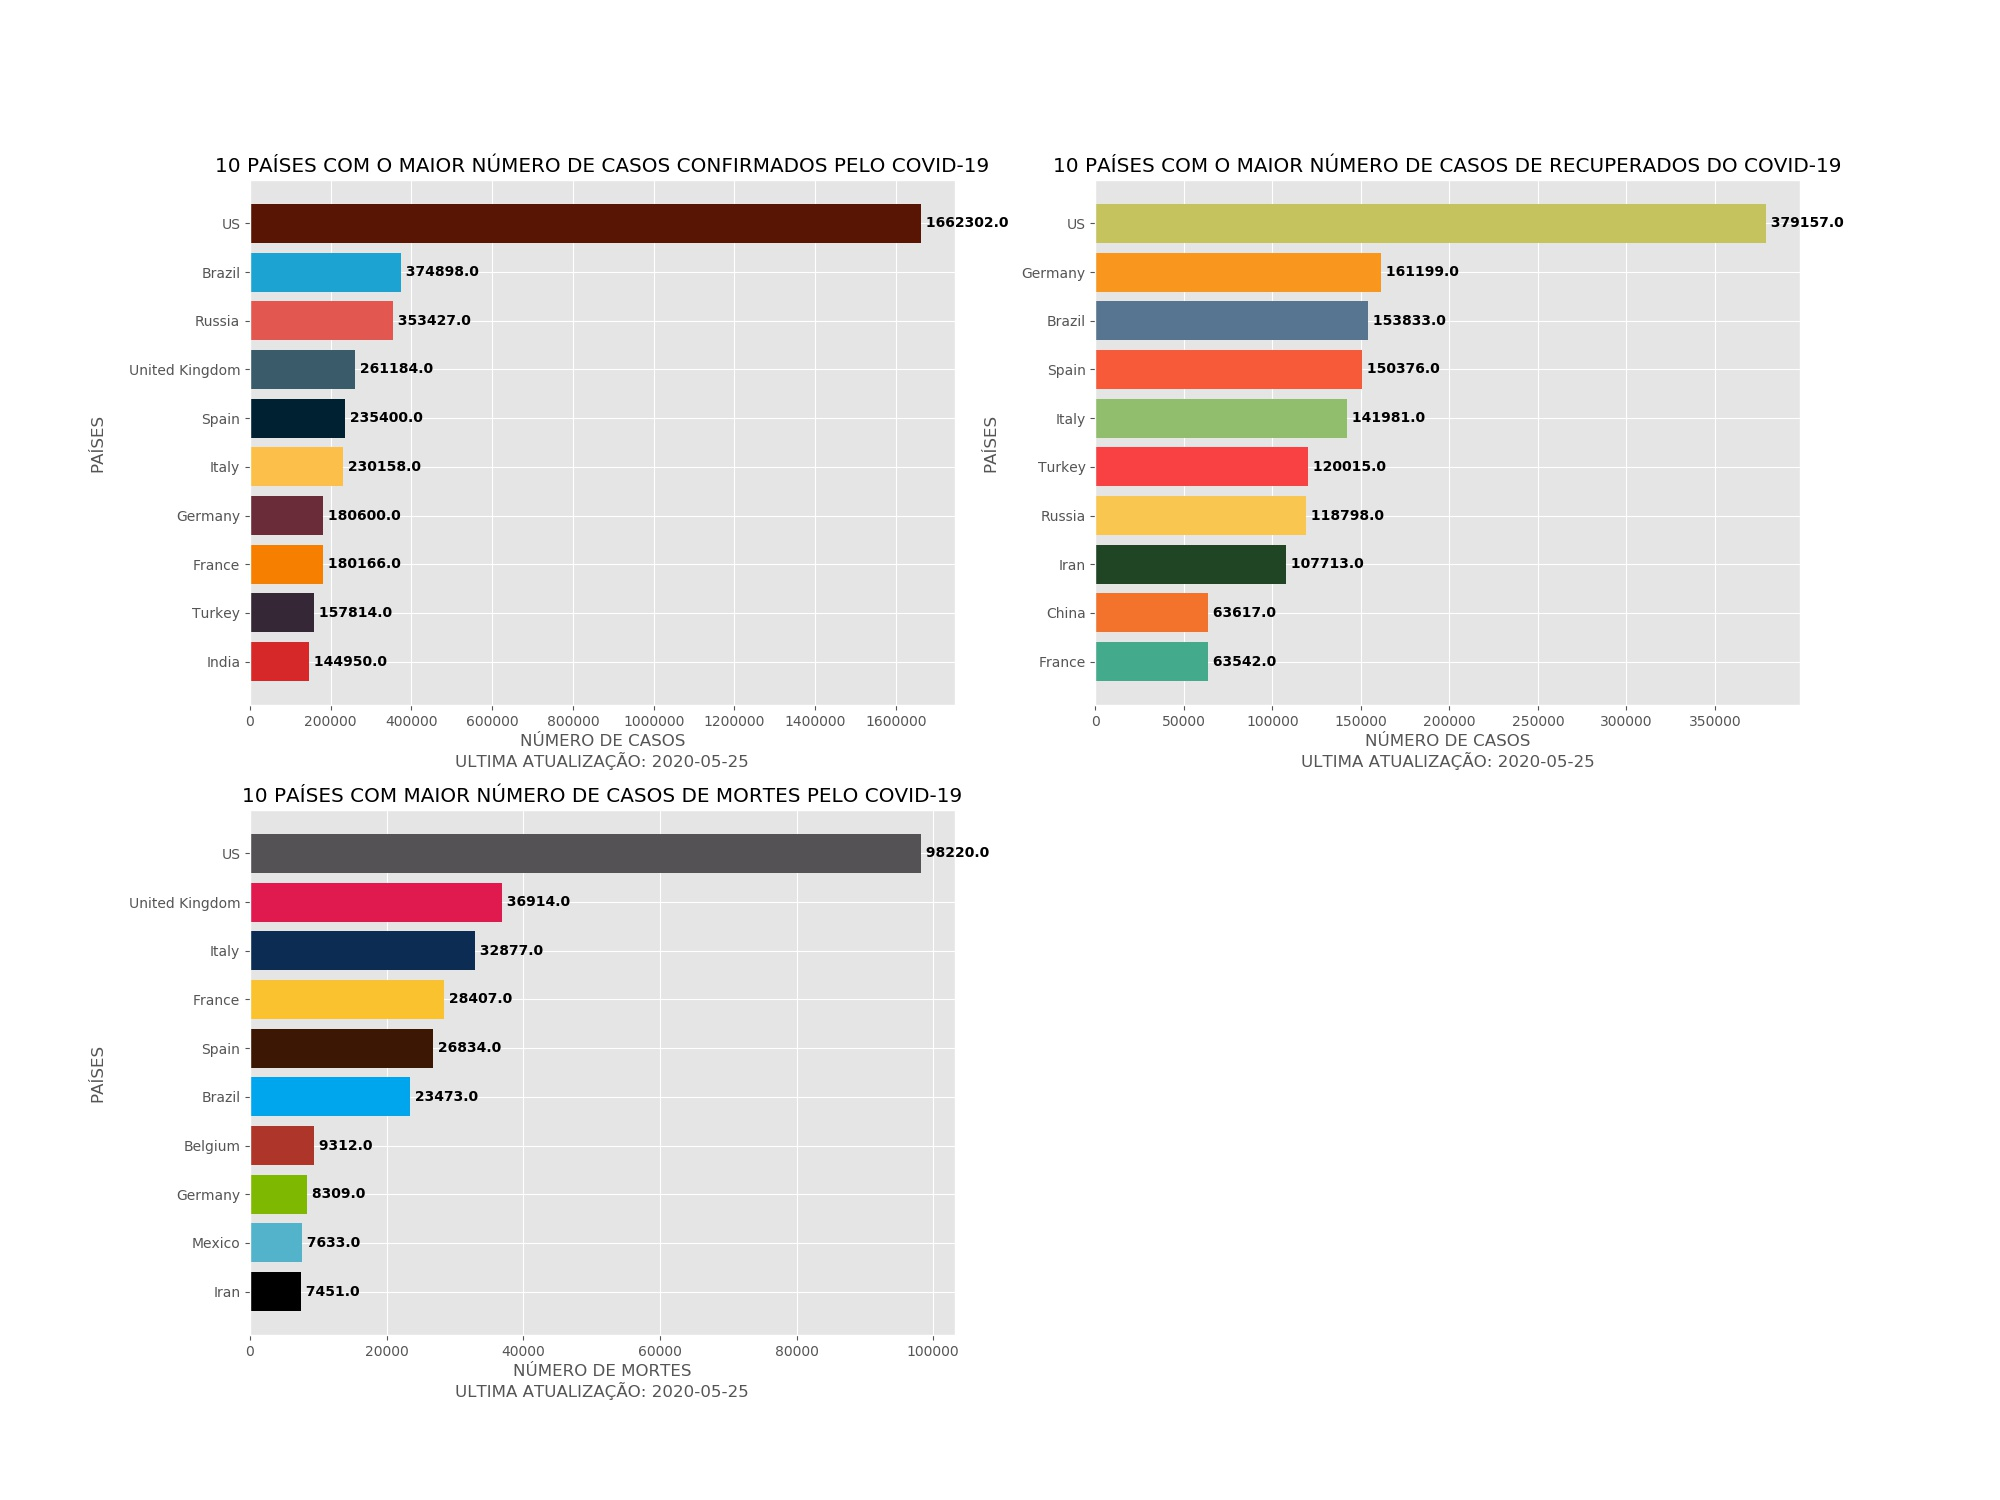
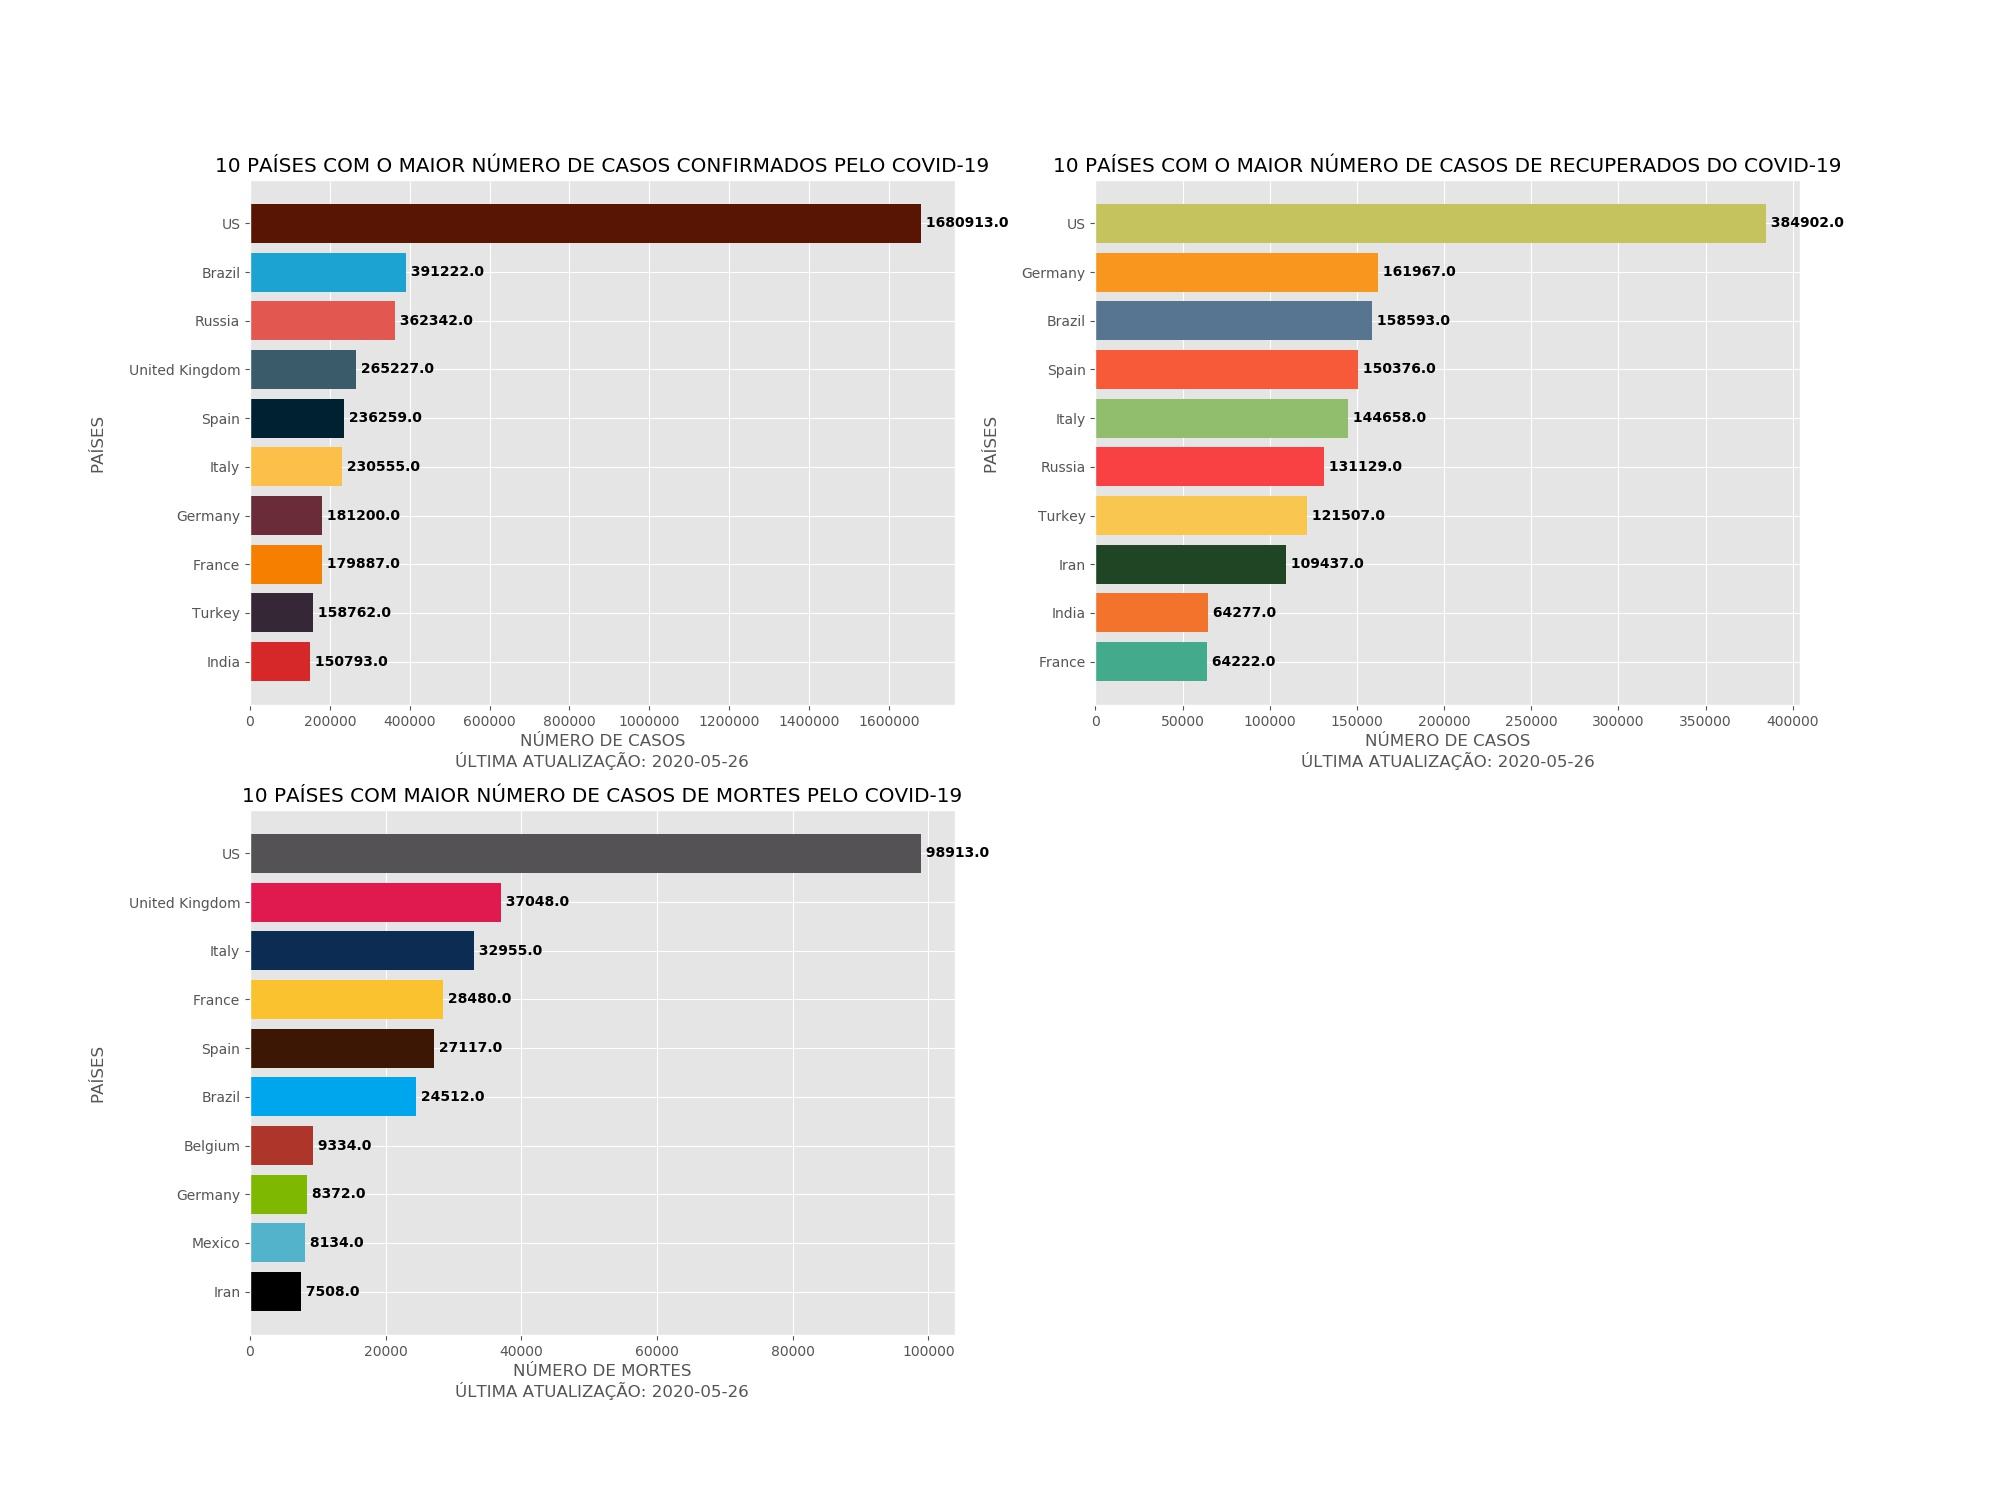
date

diff --git a/generatesGraph.py b/generatesGraph.py
@@ -51,7 +51,7 @@ plt.figure(figsize=(20, 15))
 plt.subplot(2, 2, 1)
 plt.barh(countryCases, confirmed, color=colorOne)
 plt.title('\n10 países com o maior número de casos confirmados pelo Covid-19'.upper())
-plt.xlabel('Número de Casos\nUltima atualização: {}\n'.format(dateAt).upper(), fontSize = 12)
+plt.xlabel('Número de Casos\nÚltima atualização: {}\n'.format(dateAt).upper(), fontSize = 12)
 plt.ylabel('Países\n'.upper())
 
 
@@ -74,7 +74,7 @@ confirmedRecovered = recovered['Recovered']
 plt.subplot(2, 2, 2)
 plt.barh(countryRecovered, confirmedRecovered, color=colorTwo)
 plt.title('\n10 países com o maior número de casos de recuperados do Covid-19'.upper())
-plt.xlabel('Número de Casos\nUltima atualização: {}'.format(dateAt).upper())
+plt.xlabel('Número de Casos\nÚltima atualização: {}'.format(dateAt).upper())
 plt.ylabel('Países\n'.upper())
 
 
@@ -98,7 +98,7 @@ confirmedDeaths = deaths['Deaths']
 plt.subplot(2, 2, 3)
 plt.barh(countryDeaths, confirmedDeaths, color=colorThree)
 plt.title('\n10 países com maior número de casos de mortes pelo Covid-19'.upper())
-plt.xlabel('Número de Mortes\nUltima atualização: {}'.format(dateAt).upper())
+plt.xlabel('Número de Mortes\nÚltima atualização: {}'.format(dateAt).upper())
 plt.ylabel('Países\n'.upper())
 
 
